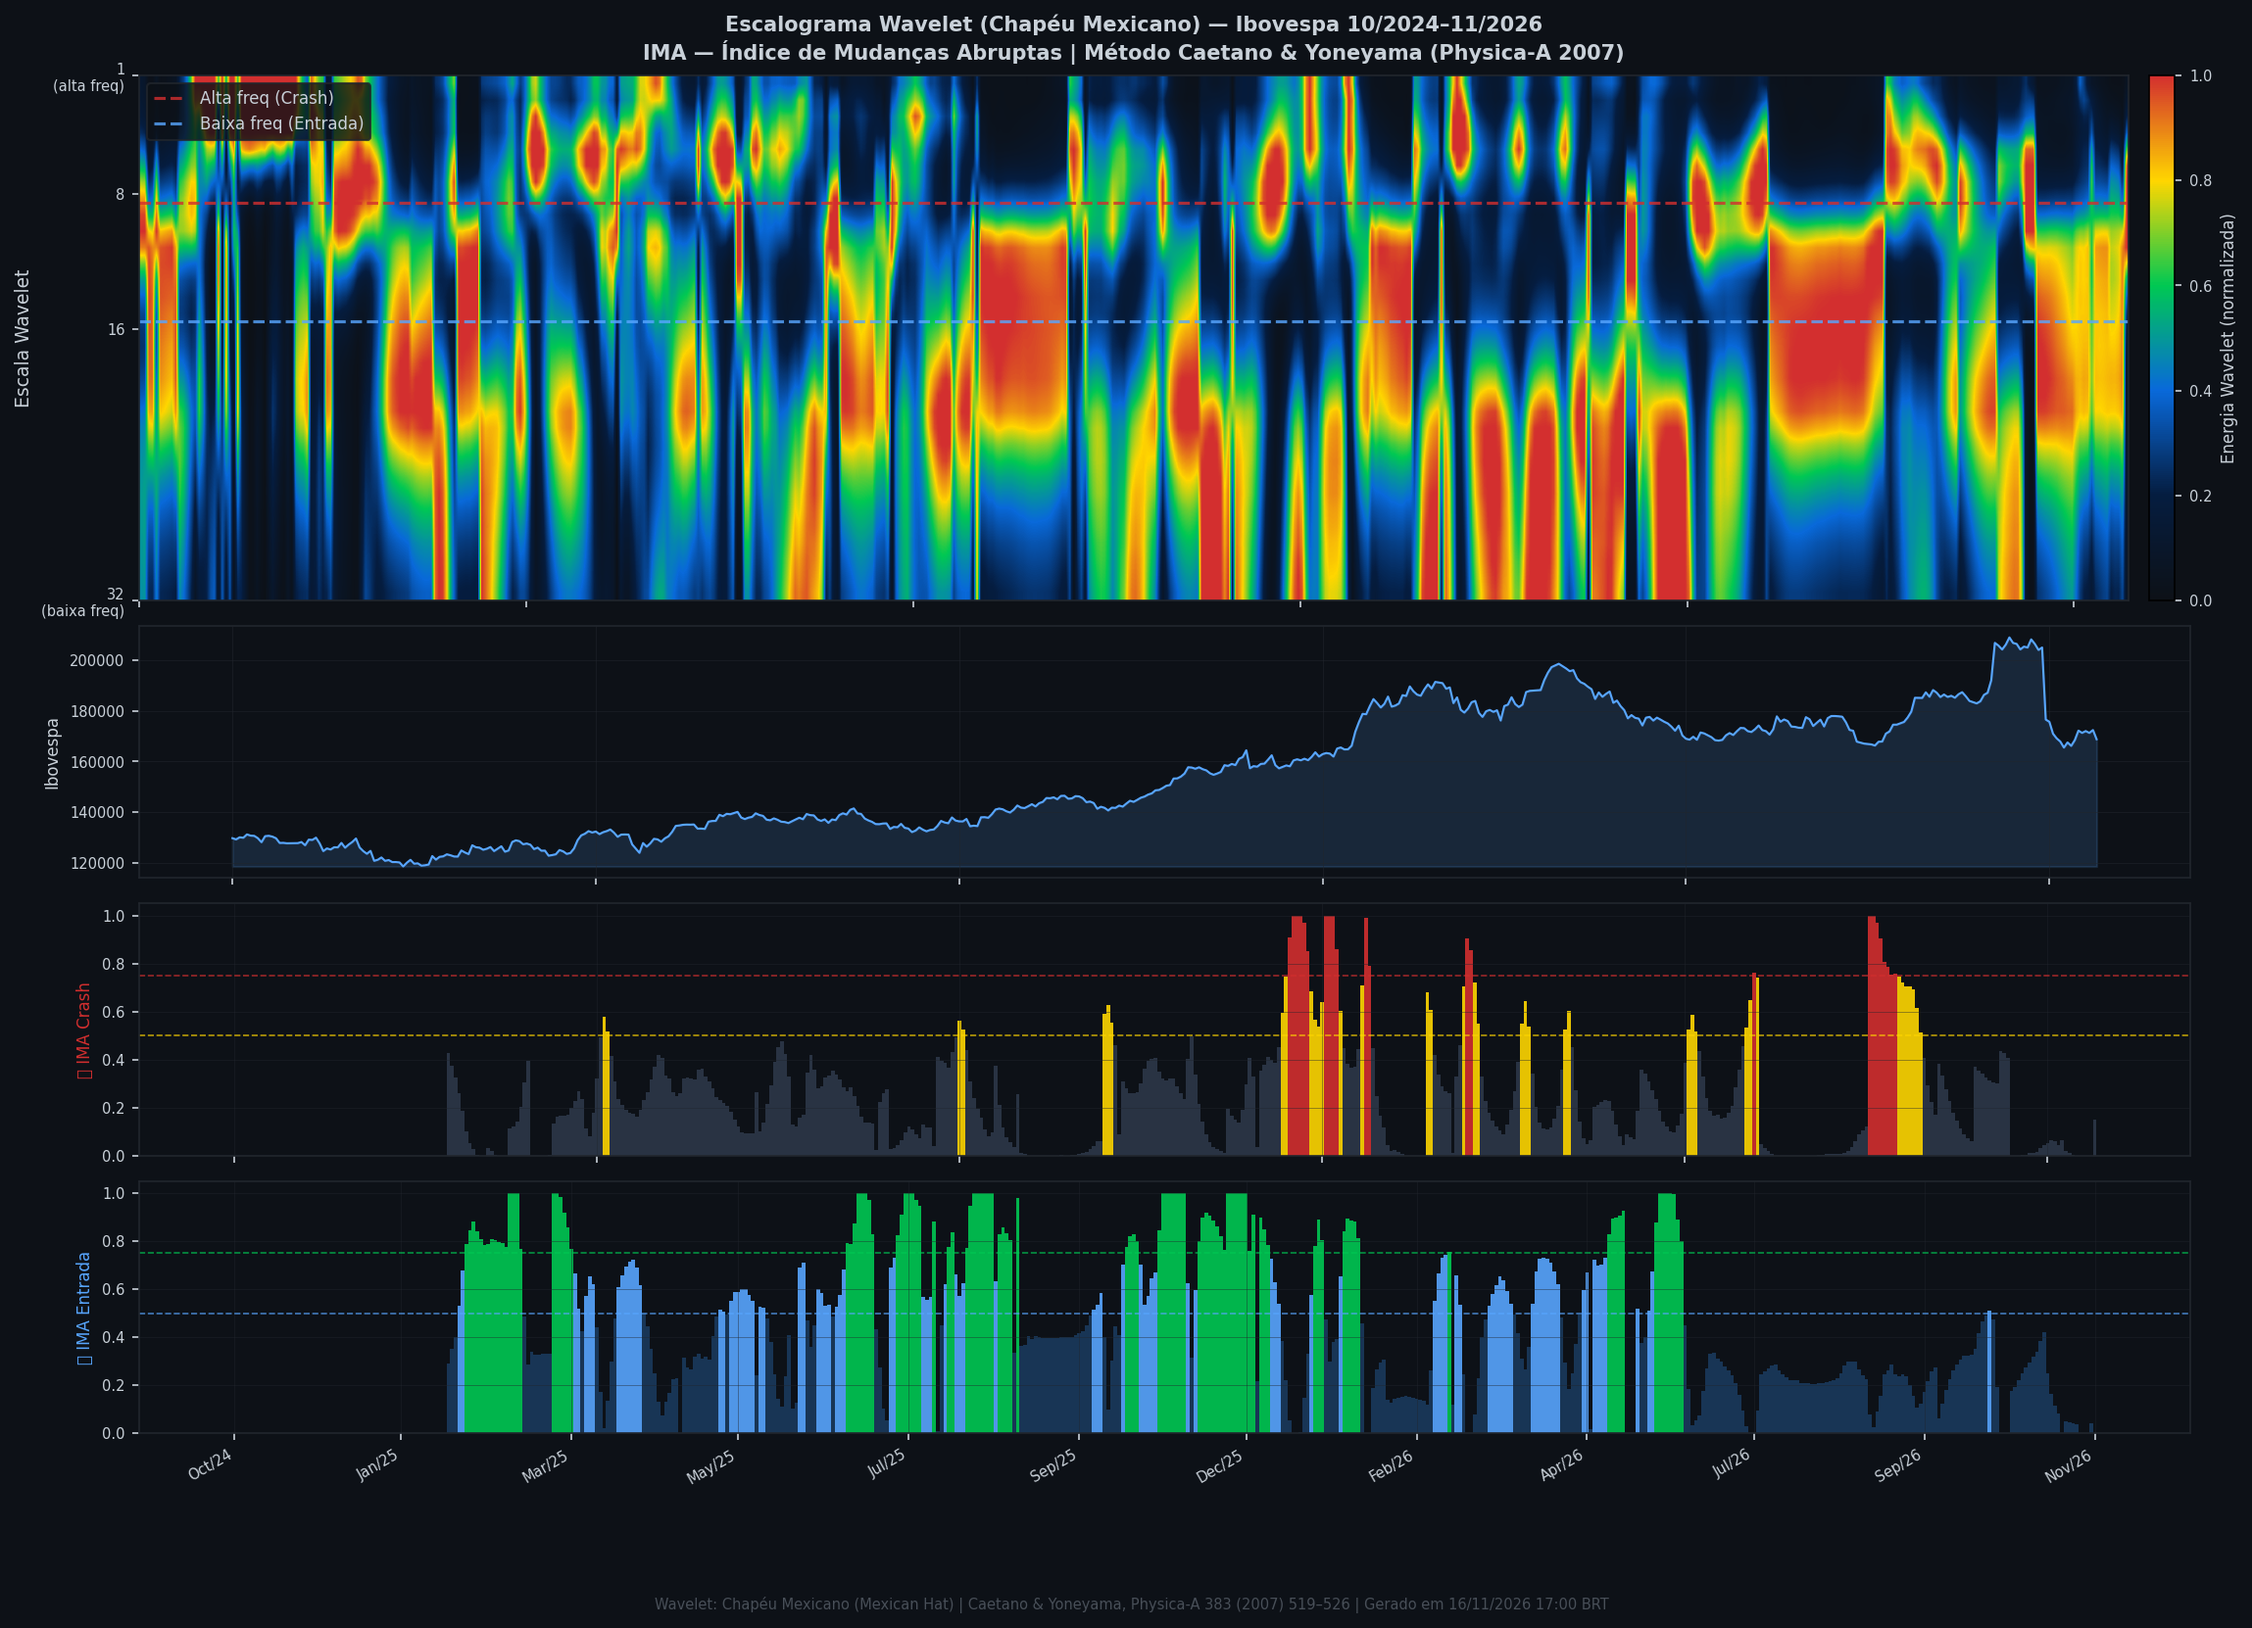
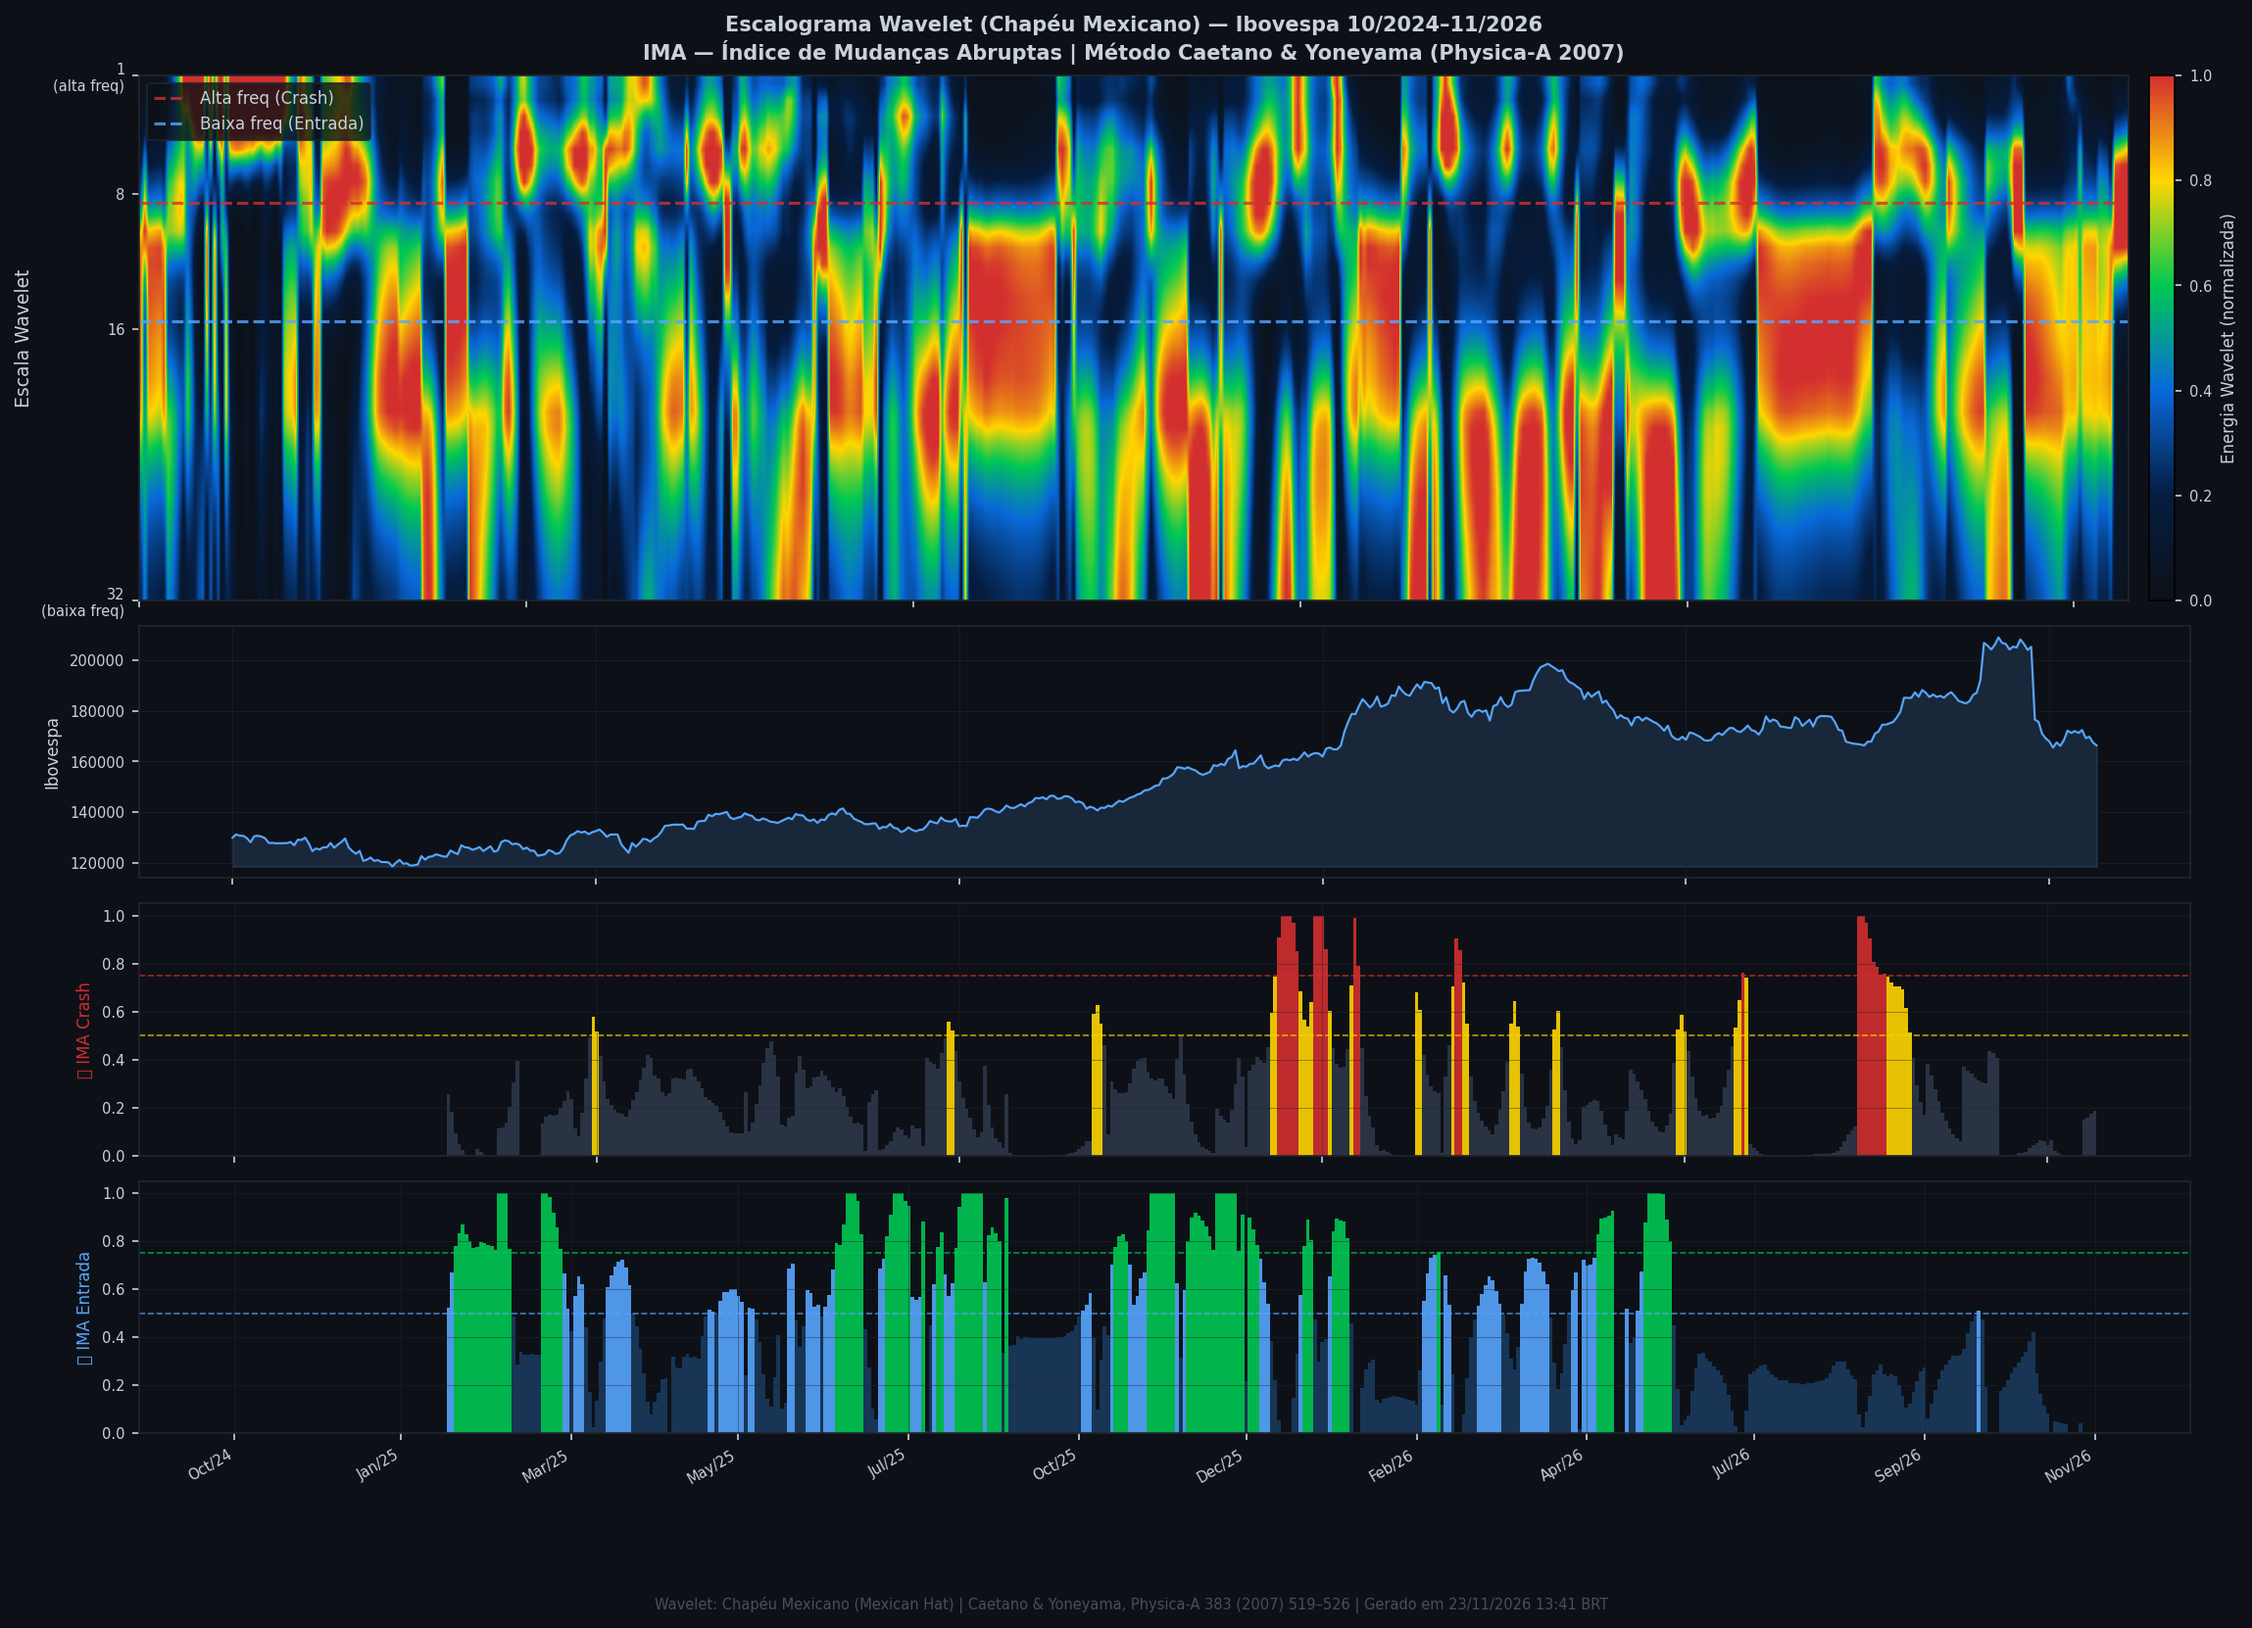
🤖 Auto: Sinal 23/11/2026 13:41

diff --git a/content/espectro/index.md b/content/espectro/index.md
@@ -1,12 +1,12 @@
 ---
 title: "🌊 Espectro wavelet"
-date: 2026-11-22
-pregao: 2026-11-19
+date: 2026-11-23
+pregao: 2026-11-23 12:45
 description: "Em que frequências o Ibovespa está vibrando — escalograma de 504 pregões, com 1929 como régua de comparação"
 tags: [espectro]
 ---
 
-*Figura de **16/11/2026 às 17:00** · página refeita em 22/11/2026 20:53.*
+*Figura de **23/11/2026 às 13:41** · página refeita em 23/11/2026 13:41.*
 
 > [!info] Esta página é **semanal**, não diária
 > O espectro é recalculado **toda segunda-feira às 17h BRT** e só então esta página muda. As frequências do mercado se movem devagar: refazer isso todo dia gastaria máquina para mostrar a mesma figura. Todos os horários de atualização do site estão em [horários](../horarios/).
@@ -19,12 +19,14 @@ Serve para uma pergunta que o preço não responde: **em que escala o mercado es
 
 ![Espectro wavelet do Ibovespa, 504 pregões](../graficos/espectro_wavelet.png)
 
-<small>Escalograma por transformada wavelet contínua (wavelet Chapéu Mexicano) sobre 504 pregões do ^BVSP, com o IMA Crash e o IMA Entrada calculados na mesma série. Gerado em 16/11/2026 às 17:00 pelo `gerar_espectro_wavelet.py`.</small>
+<small>Escalograma por transformada wavelet contínua (wavelet Chapéu Mexicano) sobre 504 pregões do ^BVSP, com o IMA Crash e o IMA Entrada calculados na mesma série. Gerado em 23/11/2026 às 13:41 pelo `gerar_espectro_wavelet.py`.</small>
 
-> [!note] O sinal em 19/11/2026
-> **🌱 Fundo se desfazendo** · zona **VERDE** · risco **0,000** (amarelo em 0,60 · vermelho em 0,90)
+> [!note] O sinal em 23/11/2026 12:45 BRT
+> **⚪ Neutro** · zona **VERDE** · risco **0,000** (amarelo em 0,60 · vermelho em 0,90)
 > 
-> só contexto: o pânico passou; sem vantagem estatística confirmada para comprar só por isso.
+> sem diferença estatística em relação a um dia qualquer.
+> 
+> No diário de 19/11/2026: **🌱 Fundo se desfazendo** — só contexto: o pânico passou; sem vantagem estatística confirmada para comprar só por isso.
 
 <small>O risco acima é a componente **IMA** (peso 1,0). A componente **LPPL** está com peso 0,0 no momento, isto é, desligada — o número não contém ajuste log-periódico. Isso é medição, não opinião: está escrito no próprio arquivo do sinal.</small>
 

diff --git a/content/integridade/index.md b/content/integridade/index.md
@@ -6,7 +6,7 @@ description: "O que foi conferido, contra qual fonte e quando — medido na hora
 tags: [integridade]
 ---
 
-*Pregão conferido: **19/11/2026**, com 54 tabelas no acervo · página gerada em 23/11/2026 13:30*
+*Pregão conferido: **19/11/2026**, com 54 tabelas no acervo · página gerada em 23/11/2026 13:41*
 
 O pregão conferido é o último **fechado e arquivado inteiro**, não o de hoje: enquanto o dia corre, só algumas tabelas estão gravadas, e conferir um dia pela metade produziria alarme falso.
 
@@ -23,7 +23,7 @@ Esta página não declara que o site está correto. Ela **mede** e escreve o res
 | Tabelas com conteúdo fora da curva | nenhuma |
 | Páginas publicadas | 364 |
 | Conferências cruzadas das páginas | 71 certas, nenhuma divergência |
-| Página escrita mais recentemente | 23/11 13:30 |
+| Página escrita mais recentemente | 23/11 13:41 |
 | Páginas sem data no cabeçalho | 9 — cegas para a conferência de dado |
 
 ## 1 · Acervo do boletim diário
@@ -116,12 +116,12 @@ Nenhuma tabela do pregão conferido ficou abaixo da metade do seu próprio norma
 
 Duas medidas diferentes, que antes eram confundidas numa só. O **mtime** diz quando o gerador escreveu o arquivo e pega gerador que parou de rodar. A **data declarada** diz a que pregão o conteúdo se refere e pega gerador que roda mas cujo dado não anda — que foi o defeito do agro em 16/11.
 
-Pregão mais recente declarado por alguma página: **19/11/2026**.
+Pregão mais recente declarado por alguma página: **23/11/2026**.
 
 | página | escrita em | dias parada |
 |---|---|---:|
-| `diario/index.md` | 16/11 14:43 | 6.9 |
-| `intraday/index.md` | 16/11 14:43 | 6.9 |
+| `diario/index.md` | 16/11 14:43 | 7.0 |
+| `intraday/index.md` | 16/11 14:43 | 7.0 |
 | `por-onde-comecar.md` | 16/11 15:20 | 6.9 |
 | `autopsias/index.md` | 19/11 14:39 | 4.0 |
 | `sinais-topo-fundo/index.md` | 20/11 19:00 | 2.8 |

diff --git a/content/horarios/index.md b/content/horarios/index.md
@@ -2,7 +2,7 @@
 title: "🕐 Quando este site atualiza"
 ---
 
-*Lido do agendamento do próprio servidor em 23/11/2026 13:24.*
+*Lido do agendamento do próprio servidor em 23/11/2026 13:40.*
 
 
 Esta página não é escrita à mão. Ela é **lida do agendamento do servidor** toda vez que o
@@ -35,6 +35,7 @@ O que acontece em todo dia útil, sempre no mesmo horário. É daqui que vem o n
 | dias úteis, 19h00 | **Rodada diária** — Refaz todas as páginas do dia e dispara o aviso diário. Roda às 19h, antes de a B3 publicar o boletim — por isso existe o vigia abaixo. |
 | dias úteis, 19h30 | **Resumo do dia** — Fecha o resumo e envia. |
 | dias úteis, 19h40 | **Setups** — Testa e republica as páginas dos setups. |
+| dias úteis, 19h50 | **Série do Ibovespa** — Estende a série diária do Ibovespa com o pregão que acabou de fechar, vindo da corretora. É a série que os estudos leem. Confere antes se as duas fontes ainda batem e não grava nada se divergirem: série contaminada não se percebe, série atrasada sim. |
 
 
 ## Ao longo do pregão, de poucos em poucos minutos

diff --git a/content/avisos/index.md b/content/avisos/index.md
@@ -2,7 +2,7 @@
 title: "⚠ Avisos: o que saber antes de usar os números"
 ---
 
-*Gerado em 23/11/2026 13:30*
+*Gerado em 23/11/2026 13:41*
 
 Este site publica muitos números, e cada um tem uma limitação que importa na hora de
 decidir. As limitações estão escritas nas próprias páginas, mas quem chega direto numa
